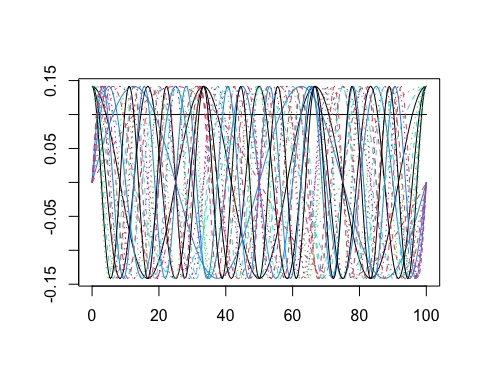
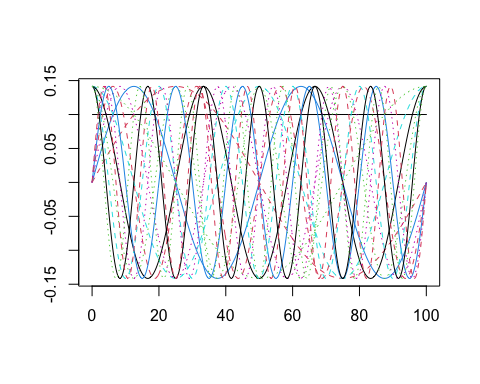
work on smoothing

Changed region(s): [[0.1875, 0.2188, 0.9062, 0.75], [0.875, 0.25, 0.9062, 0.3438]]

diff --git a/practicals/01-smoothing.md b/practicals/01-smoothing.md
@@ -1,6 +1,16 @@
 Part 1: Data Representation and Smoothing
 ================
 
+- <a href="#load-packages" id="toc-load-packages">1 Load Packages</a>
+- <a href="#the-fd-class" id="toc-the-fd-class">2 The <code>fd</code>
+  class</a>
+- <a href="#producing-smooth-functions-from-noisy-observations"
+  id="toc-producing-smooth-functions-from-noisy-observations">3 Producing
+  Smooth Functions from Noisy Observations</a>
+- <a href="#working-with-fd-objects" id="toc-working-with-fd-objects">4
+  Working with <code>fd</code> Objects</a>
+- <a href="#references" id="toc-references">5 References</a>
+
 <center>
 
 ![](../logo/isbs-logo.png) ![](../logo/whitespace.png)
@@ -8,7 +18,7 @@ Part 1: Data Representation and Smoothing
 
 </center>
 
-# Load Packages
+# 1 Load Packages
 
 ``` r
 library(fda) # load the fda package
@@ -18,7 +28,7 @@ library(fda) # load the fda package
 
 ------------------------------------------------------------------------
 
-# The `fd` class
+# 2 The `fd` class
 
 The `fda` package represents functional observations (i.e., *curves*)
 using a **basis function expansion**. That is, each functional
@@ -35,11 +45,12 @@ $x_1(t), \dots, x_N(t)$ should comprise two component parts:
     These are *common to all curves*. They are defined in the `fda`
     package as a `basisfd` class.
 
-2.  The basis coefficients $c_{ik}$. We need $K$ basis coefficients
+2.  The **basis coefficients** $c_{ik}$. We need $K$ basis coefficients
     (i.e., 1 coefficient per basis function) to define each individual
     functional observation. Therefore, for the full dataset of $N$
     observations we have an $K \times N$ matrix of basis coefficients.
 
+**Examples:**
 <details>
 <summary>
 <b>Construct a cubic B-spline basis with 20 basis functions</b>
@@ -72,15 +83,15 @@ plot(bspl_20)
 </details>
 <details>
 <summary>
-<b>Construct a Fourier basis with 20 basis functions</b>
+<b>Construct a Fourier basis with 15 basis functions</b>
 </summary>
 
 ``` r
-fourier_20 <- create.fourier.basis(rangeval = c(0, 100), # range of t values
-                                nbasis = 20) # number of basis functions
+fourier_15 <- create.fourier.basis(rangeval = c(0, 100), # range of t values
+                                nbasis = 15) # number of basis functions
 
 # plot our basis
-plot(fourier_20)
+plot(fourier_15)
 ```
 
 <img src="01-smoothing_files/figure-gfm/create-fourier-1.png" style="display: block; margin: auto;" />
@@ -115,14 +126,13 @@ C <- matrix(rnorm(20*10), nrow = 20, ncol = 10) # 20x10 matrix of random values
 ```
 
 Now that we have our basis object and our matrix of basis coefficients,
-we can set up our `fd` object using the `fd` function.
+we can set up our `fd` object using the `fd()` function.
 
 ``` r
 toy_fd <- fd(coef = C, basisobj = bspl_20)
 ```
 
-Now that we have done this, let’s go ahead an inspect our first `fd`
-object.
+Let’s inspect our first `fd` object.
 
 ``` r
 class(toy_fd) # (or can do is.fd(toy_fd))
@@ -149,16 +159,167 @@ Hooker and Graves (2009, pp. 29-31).
 
 ------------------------------------------------------------------------
 
-# Producing smooth functions from noisy observations
+# 3 Producing Smooth Functions from Noisy Observations
 
-In most cases we don’t know the basis coefficients, we have to estimate
-or calculate them from noisy sampled measurements.
+In most cases we don’t know the basis coefficients. Instead, we have to
+estimate them from noisy sampled measurements of each curve.
+
+For this practical, we’ll assume that we measure each functional
+observation on a common grid $T$ points $t_1, \dots, t_T$, and these
+measurements are contaminated with some measurement error (or “noise”):
+$$
+y_{ij} = \underbrace{x_i(t_{j})}_{\text{smooth function}} + \underbrace{\epsilon_{ij}}_{\text{noise}}.
+$$ **–introduce data–**
 
 ------------------------------------------------------------------------
 
-------------------------------------------------------------------------
+When creating our `fd` object, we want to recover the underlying
+functions $x_1(t), \dots, x_N (t)$ as accurately as possible without
+capturing the noise.
 
-# Summarising `fd` objects
+We can do this using a basis expansion, choosing a system of basis
+functions $\{\phi_k(t)\}$, and then estimating the basis coefficients
+according to some criteria.
+
+The most straightforward way to do this is by **Ordinary Least Squares
+(OLS)**, where for each curve we choose $c_{i1}, \dots, c_{iK}$ to
+minimise the sum of squared errors (SSE): $$
+\text{SSE} = \sum_{j=1}^T \left(y_{ij} - \sum_{k=1}^K c_{ik} \phi(t_{ij})\right)^2.
+$$
+
+To compute the basis coefficients by OLS we can use the `smooth.basis()`
+function, which takes the following three arguments:
+
+- `argvals`: This is our grid of points $t_1, \dots, t_T$.
+
+- `Y`: This is our $T \times N$ matrix containing the discrete noisy
+  measurements of the $N$ curves at the $T$ sampling points.
+
+- `fdParobj`: For OLS, we just supply the `basisobj` we are using to
+  represent the curves.
+
+``` r
+ols_fdSmooth <- smooth.basis(argvals = t_grid, y = Y_mat, fdParobj = bspl_35)
+```
+
+The `smooth.basis()` function returns an `fdSmooth` object. The most
+important part of this object is the `fd` element – this is an `fd`
+object comprising the basis we have supplied and the coefficients we
+have estimated, so it represents our dataset of smoothed curves.
+
+``` r
+ols_fd <- ols_fdSmooth$fd # or ols_fdSmooth[["fd]]
+plot(ols_fd[1:3,], xlab = "t", ylab = "x(t)")
+matpoints(x = t_grid, y = Y_mat[, 1:3], pch = 20) # overl
+```
+
+With the OLS, the smoothness of the fitted curve is controlled by the
+number of basis functions $K$.
+
+``` r
+# add loop with K
+```
+
+A more flexible approach is to choose a risch basis (i.e., a large value
+of $K$) and and add a penalty to the SSE criterion that penalises the
+roughness of the fitted function $$
+\text{PENSSE} =  \underbrace{\sum_{j=1}^T \left(y_{ij} - \sum_{k=1}^K c_{ik} \phi(t_{ij})\right)^2}_{\text{SSE}} + \lambda \underbrace{\text{PEN}(x(t))}_{\text{Roughness penalty}}.
+$$ This approach is called **Penalised Ordinary Least Squares (P-OLS)**.
+The roughness penalty we will use is on the integrated squared second
+derivative of $x(t)$: $$
+\text{PEN}(x(t)) = \int \left( \frac{\mathrm{d}^2 x(t)}{\mathrm{d}t^2} \right)^2 \mathrm{d}t
+$$ Applying P-OLS with `smooth.basis()` is very similar to OLS, but we
+pass a general `fdPar` object (rather than just our `basisfd` object) to
+`fdParobj` argument, to encode information about the basis, the penalty
+and the smoothing parameter $\lambda$: The we create this object using
+the `fdPar()` function, and then pass the following arguments:
+
+- `fdobj`: here we just supply our basis.
+
+- `Lfdobj`: Here we specify the penalty – `int2Lfd(m = m)` specifies a
+  penalty on the integrated squared $m$th derivative of our fitted
+  curve, so we set $m=2$ for the second derivative penalty.
+
+- `lambda` specifies the value of the smoothing parameter $\lambda$.
+
+``` r
+fdParobj_pols <-fdPar(fdobj = bspl_20, Lfdobj = int2Lfd(m = 2), lambda = 1)
+```
+
+We then pass the `fdPar` object that we have created to the `fdParobj`
+argument in `smooth.basis()` to perform P-OLS smoothing.
+
+``` r
+pls_fdSmooth <- smooth.basis(argvals = t_grid, y = Y_mat, fdParobj = fdParobj_pols)
+```
+
+Let’s view the effect on the fit of a single curve when we vary
+$\lambda$:
+
+``` r
+# create grid of values for lambda varying on a log10 scale
+log10_lambda_range <- seq(-10, 10, by = 1)
+lambda_range <- 10^log10_lambda_range
+n_lambda <- length(lambda_range) # how many values we're trialling
+
+plot(x = t_grid, y = Y[, 1], pch = 20) # plot underlying data (first curve)
+for(lam in seq_len(n_lambda)) {
+  # loop through different lambdas
+  fdParobj_lam <- fdPar(fdobj = bspl_20, 
+                        Lfdobj = int2Lfd(m = 2),
+                        lambda = lambda_range[lam]) # create fdPar with chosen lambda
+  # do p-ols with chosen lambda:
+  pls_fdSmooth_lam <- smooth.basis(argvals = t_grid, y = Y_mat, fdParobj = fdParobj_lam)
+  # extract fd object:
+  pls_fd_lam <- pls_fdSmooth_lam$fd
+  # overlay line of current fit
+  lines.fd(pls_fd_lam[1, ], col = lam)
+}
+```
+
+For choosing an optimal value of $\lambda$, we typically minimise some
+measure of fit to the data that is discounted for the complexity of the
+model. A common measure is the Generalised Cross Validation (GCV)
+criterion (Craven and Wahba, 1979). It is returned automatically as part
+of the `fdSmooth` object returned by `smooth.basis()`. In the following,
+we loop through a range of values for $\lambda$ to find the one that
+provides the minimum GCV value:
+
+``` r
+# create vcector to store the GCV values:
+gcv_vec <- vector(mode = "numeric", length = n_lambda)
+
+for(lam in seq_len(n_lambda)) {
+  # loop through different lambdas
+  fdParobj_lam <- fdPar(fdobj = bspl_20, 
+                        Lfdobj = int2Lfd(m = 2),
+                        lambda = lambda_range[lam]) # create fdPar with chosen lambda
+  # do p-ols with chosen lambda:
+  pls_fdSmooth_lam <- smooth.basis(argvals = t_grid, y = Y_mat, fdParobj = fdParobj_lam)
+  # store resulting GCV:
+  gcv_vec[lam] <- pls_fdSmooth_lam$gcv
+}
+
+plot(log10_lambda_range, 
+     y = gcv_vec, 
+     type = "b", 
+     xlab = expression(log[10](lambda)), 
+     ylab = "GCV")
+best_lambda_index <- which.min(gcv_vec)
+abline(v = log10_lambda_range[best_lambda_index])
+```
+
+Some more things to try:
+
+- Think about how you would code ordinary cross-validation
+  (leave-one-out and $k$-fold).
+
+- Think about how you would examine regression assumptions using what is
+  returned by `smooth.basis()`.
+
+# 4 Working with `fd` Objects
+
+Evaluating
 
 Mean – show mean of coefficients.
 
@@ -166,8 +327,18 @@ Covariance – just calculation
 
 Boxplot – add more.
 
-# References
+Derivatives + add code
+
+------------------------------------------------------------------------
+
+------------------------------------------------------------------------
+
+# 5 References
 
 - Ramsay, J. O., Hooker, G., & Graves, S. (2009). Functional Data
   Analysis with R and MATLAB. Springer-Verlag.
   <https://doi.org/10.1007/978-0-387-98185-7>
+
+- Craven, P., & Wahba, G. (1978). Smoothing noisy data with spline
+  functions. Numerische Mathematik, 31(4), 377–403.
+  <https://doi.org/10.1007/BF01404567>

diff --git a/README.md b/README.md
@@ -74,6 +74,19 @@ install.packages("refund") # install the refund package
 
 ------------------------------------------------------------------------
 
+# Schedule
+
+|              Time | Topic                    | Format                |  Lead   | Material |
+|------------------:|:-------------------------|-----------------------|:-------:|:---------|
+| $09.30$ - $10.15$ | Welcome and Introduction | Lecture               |   DH    | [](link) |
+| $10.15$ - $10.35$ | Coffee Break             |                       |         |          |
+| $10.35$ - $12.15$ | Foundations of FDA       | Lecture               | DH & EG | [](link) |
+| $12.15$ - $13.35$ | Lunch                    |                       |         |          |
+| $13.35$ - $15.15$ | Hands-on FDA with **R**  | Practical (groups)    |   EG    | [](link) |
+| $15.15$ - $16.00$ | Q&A with Coffee          | Group Discussion/ Q&A | DH & EG |          |
+
+------------------------------------------------------------------------
+
 # 📧 Contact
 
 - Queries about registration for the course should be sent to the ISBS
